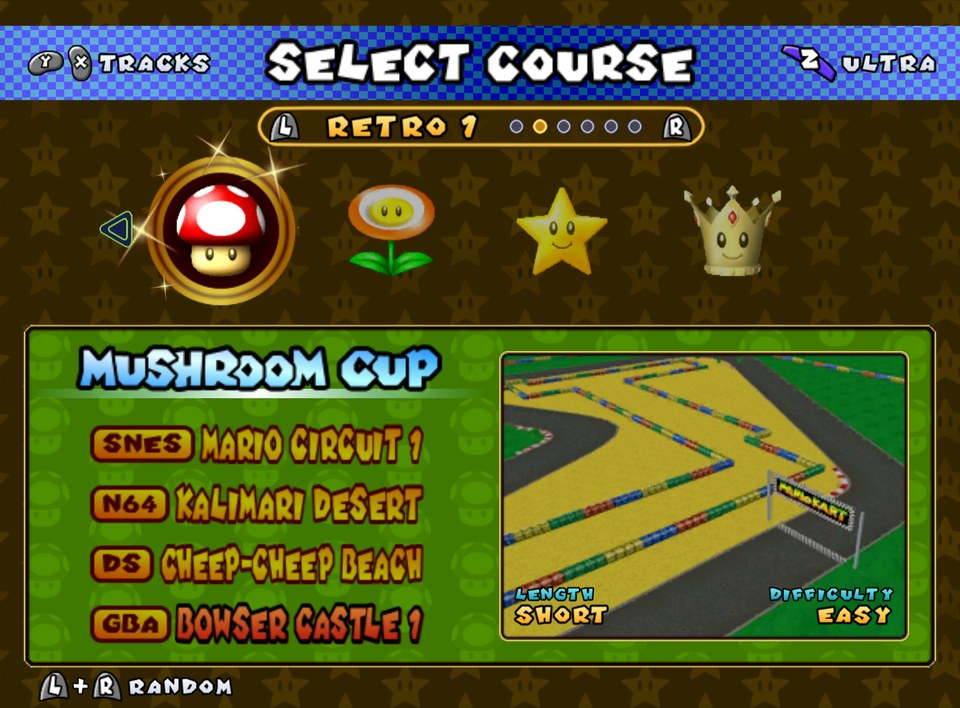
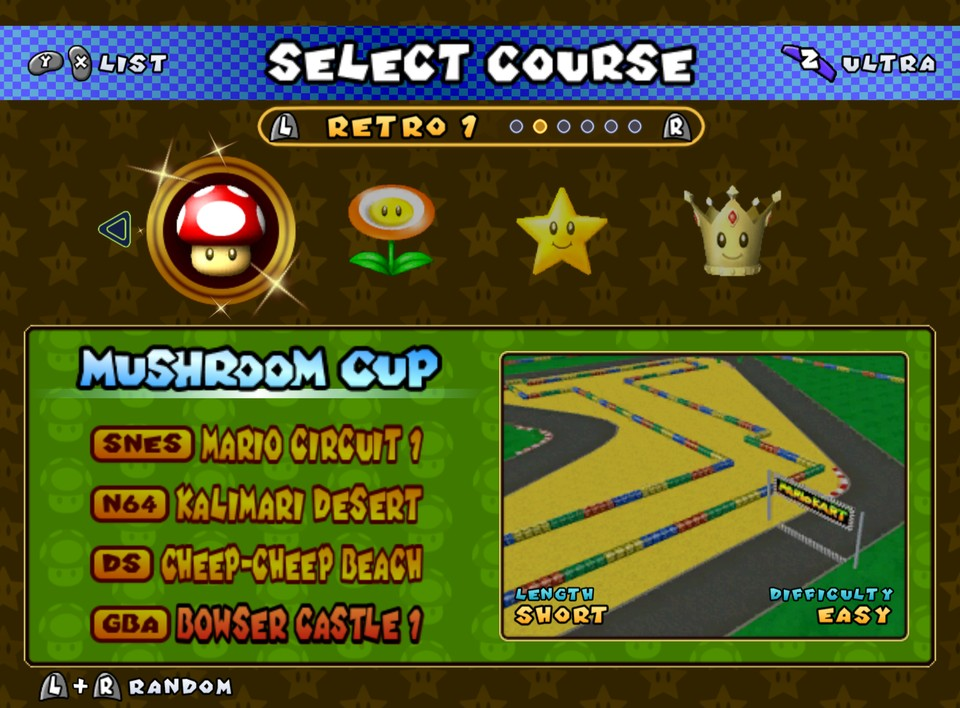
Show Slide attack and the List hint in the screenshots

Changed region(s): [[0.0625, 0.0311, 1.0, 0.1554], [0.0938, 0.1864, 0.3125, 0.435], [0.0, 0.0311, 0.0312, 0.1554]]

diff --git a/mkdd/index.html b/mkdd/index.html
@@ -393,7 +393,7 @@ footer b { color: var(--gold); }
     <h2>Custom tracks</h2>
     <p class="intro">80 custom tracks and 30 battle stages on five extra pages of the cup and stage select, Retro 1 to 5. The first four have the full MKDD Plus lineup and the fifth has our own picks from the community. Every course has its own music in stereo, all on one disc! Turn the page with <strong>L</strong> and <strong>R</strong>, or just keep going past the last cup. L+R together rolls a random cup. In Versus and Time Trials, <strong>X</strong> switches to a list of the courses by console, or of all of them from A to Z. The stage select has the same list for the battle stages.</p>
     </div>
-    <figure class="real"><a href="img/cup-select.jpg"><img src="img/cup-select.jpg" width="960" height="708" alt="The cup select on the first extra page, the X and Z hints in the title bar, Retro 1 in the gold label under the title: Mushroom Cup with SNES Mario Circuit 1, N64 Kalimari Desert, DS Cheep-Cheep Beach and GBA Bowser Castle 1, and on the preview how long and how hard" loading="lazy"></a><figcaption>Retro 1 on the cup select</figcaption></figure>
+    <figure class="real"><a href="img/cup-select.jpg"><img src="img/cup-select.jpg" width="960" height="708" alt="The cup select on the first extra page, X List and Z Ultra in the title bar, Retro 1 in the gold label under the title: Mushroom Cup with SNES Mario Circuit 1, N64 Kalimari Desert, DS Cheep-Cheep Beach and GBA Bowser Castle 1, and on the preview how long and how hard" loading="lazy"></a><figcaption>Retro 1 on the cup select</figcaption></figure>
     <figure class="real"><a href="img/track-list.jpg"><img src="img/track-list.jpg" width="960" height="708" alt="The list of courses: a tab per console and one for all courses under the title bar, Nintendo 64 above seven rows of its courses with Kalimari Desert picked, its preview beside them and under that where it is, how long and how hard" loading="lazy"></a><figcaption>The same courses by console, on X</figcaption></figure>
     </div>
     <div class="courses tabs">
